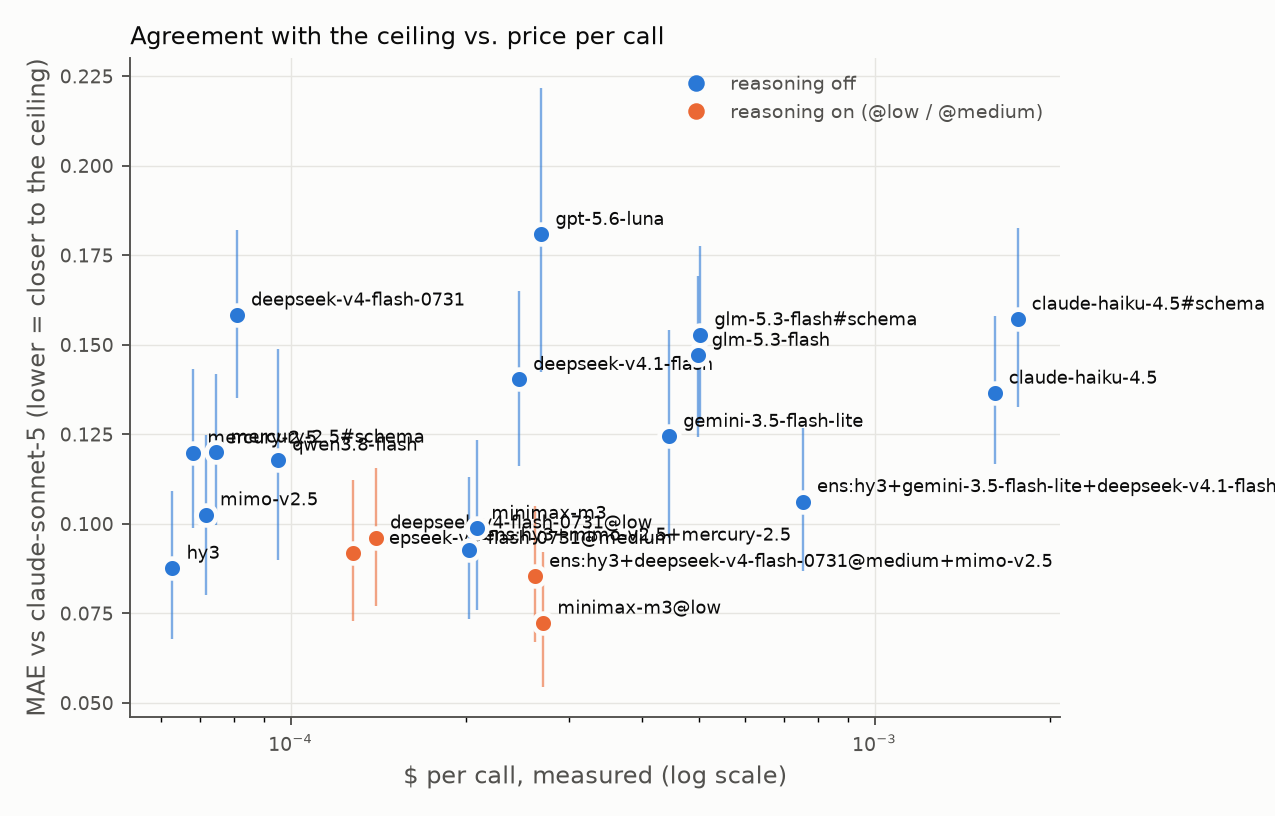
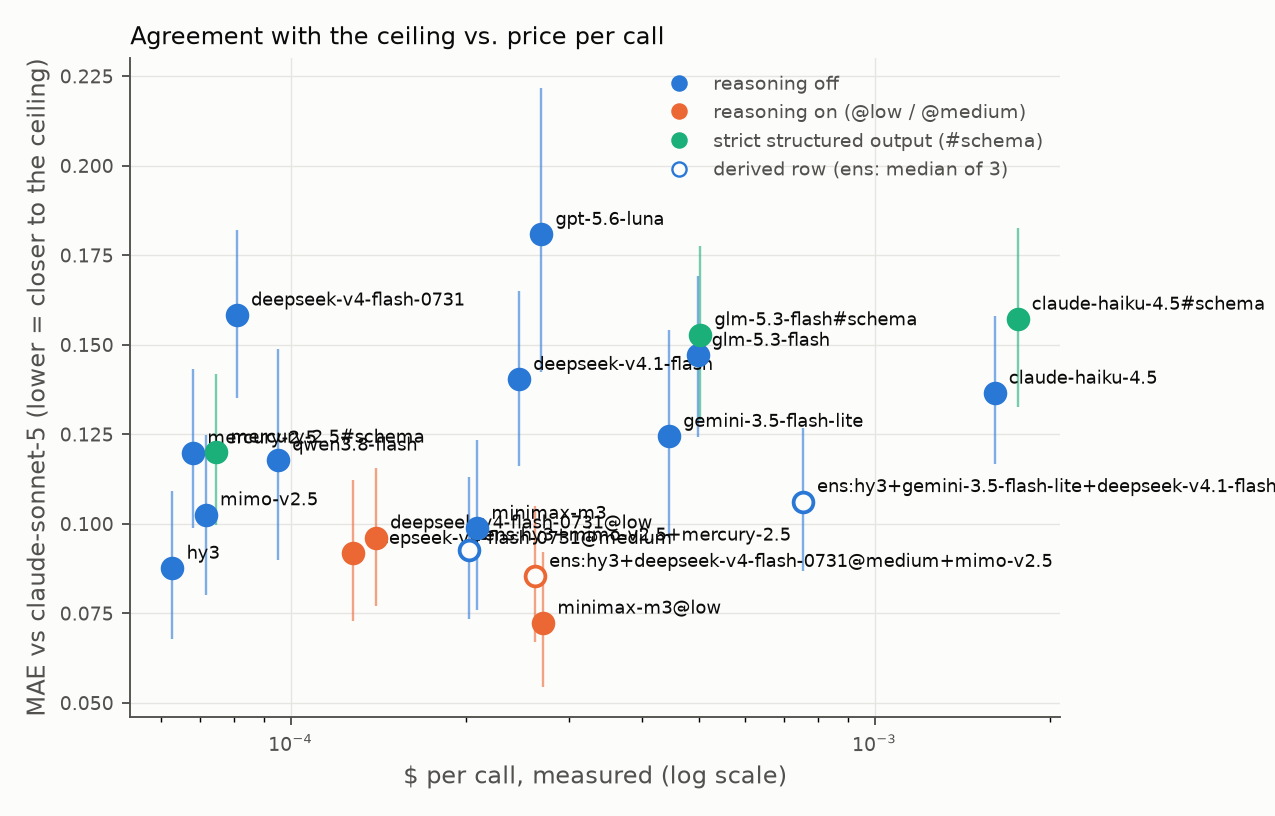
docs+figures: refresh after the analysis features; split docs/METRICS.md out of README
- figures: third palette slot (aqua #1baf7a) for #schema rows, hollow markers for
  derived rows, legend updated; coverage chart colors follow the same rule.
- README was 295 lines: column definitions, method notes and the baseline / ensemble /
  agreement / probe / disagreement sections moved to docs/METRICS.md (every CSV column
  listed, including strict%, derived, kappa_top10, n_calls). README keeps a one-line
  column table and pointers; 187 lines.
- results/* regenerated; README results block equals results/results.md.

diff --git a/figures.py b/figures.py
@@ -1,7 +1,8 @@
 """Two figures from the metrics dict. Static PNGs for the README and the post, so no hover layer.
 
-Palette: categorical slots 1-2 of the validated default (blue = reasoning off, orange = reasoning
-on); text in ink tokens, recessive grid, no dashed rules.
+Palette: categorical slots 1-3 of the validated default (blue = reasoning off, orange = reasoning
+on, aqua = strict structured output); derived rows (ens:, baseline:) are hollow markers; text in
+ink tokens, recessive grid, no dashed rules.
 """
 
 from __future__ import annotations
@@ -17,7 +18,7 @@ matplotlib.use("Agg")
 import matplotlib.pyplot as plt  # noqa: E402
 from matplotlib.lines import Line2D  # noqa: E402
 
-BASE, REASONING = "#2a78d6", "#eb6834"
+BASE, REASONING, SCHEMA = "#2a78d6", "#eb6834", "#1baf7a"
 INK, INK2, SURFACE, GRID = "#0b0b0b", "#52514e", "#fcfcfb", "#e6e5e1"
 
 
@@ -36,22 +37,31 @@ def _style(ax) -> None:
     ax.set_axisbelow(True)
 
 
+def _color(label: str) -> str:
+    if "#schema" in label:
+        return SCHEMA
+    return REASONING if "@" in label else BASE
+
+
 def _legend(ax, **kw) -> None:
+    dot = dict(marker="o", ls="")
     handles = [
-        Line2D([], [], marker="o", ls="", color=BASE, label="reasoning off"),
-        Line2D([], [], marker="o", ls="", color=REASONING, label="reasoning on (@low / @medium)"),
+        Line2D([], [], color=BASE, label="reasoning off", **dot),
+        Line2D([], [], color=REASONING, label="reasoning on (@low / @medium)", **dot),
+        Line2D([], [], color=SCHEMA, label="strict structured output (#schema)", **dot),
+        Line2D([], [], color=BASE, mfc=SURFACE, label="derived row (ens: median of 3)", **dot),
     ]
     ax.legend(handles=handles, frameon=False, fontsize=8, labelcolor=INK2, **kw)
 
 
 def _scatter_points(ax, pts: list[tuple[str, dict]]) -> None:
     for k, r in pts:
-        color = REASONING if "@" in k else BASE
-        xy = (r["cost_usd"], r["mae"])
+        color, xy = _color(k), (r["cost_usd"], r["mae"])
         if not math.isnan(r["mae_lo"] + r["mae_hi"]):
             err = [[r["mae"] - r["mae_lo"]], [r["mae_hi"] - r["mae"]]]
             ax.errorbar(*xy, yerr=err, fmt="none", ecolor=color, elinewidth=1, alpha=0.6, zorder=2)
-        ax.scatter(*xy, s=70, color=color, edgecolor=SURFACE, lw=2, zorder=3)
+        face = SURFACE if r["derived"] else color
+        ax.scatter(*xy, s=70, facecolor=face, edgecolor=color, lw=1.6, zorder=3)
         ax.annotate(
             _short(k), xy, xytext=(6, 4), textcoords="offset points", fontsize=7.5, color=INK
         )
@@ -84,7 +94,7 @@ def plot_coverage(m: dict, out: Path, ceiling: str) -> None:
     ks = sorted((k for k in m if not k.startswith(DERIVED)), key=lambda k: (-m[k]["cov"], k))
     fig, ax = plt.subplots(figsize=(7.5, 0.34 * len(ks) + 2.0), facecolor=SURFACE)
     _style(ax)
-    colors = [REASONING if "@" in k else BASE for k in ks]
+    colors = [_color(k) for k in ks]
     bars = ax.barh([_short(k) for k in ks], [m[k]["cov"] for k in ks], color=colors, height=0.62)
     for b, k in zip(bars, ks, strict=True):
         y = b.get_y() + b.get_height() / 2
@@ -95,6 +105,8 @@ def plot_coverage(m: dict, out: Path, ceiling: str) -> None:
     ax.set_xlabel("coverage: % of calls that returned a parseable score", color=INK2)
     ax.set_title("Coverage by model config", color=INK, fontsize=10, loc="left")
     _legend(ax, loc="upper center", bbox_to_anchor=(0.5, -0.12 - 0.5 / len(ks)), ncol=2)
+    ax.legend_.legend_handles[-1].set_visible(False)  # no derived rows in the coverage chart
+    ax.legend_.texts[-1].set_text("")
     _save(fig, out / "fig_coverage.png")
 
 

diff --git a/README.md b/README.md
@@ -29,23 +29,19 @@ baseline.py          zero-LLM control: tf-idf cosine(profile.md, title + abstrac
 ensembles.py         median-of-3 cheap models as derived rows (pre-registered combos only)
 ```
 
-Metrics, per model config:
+Metrics, per model config (definitions, and the analyses built on them, in
+[docs/METRICS.md](docs/METRICS.md)):
 
-| metric             | meaning                                                                                                                          |
-| ------------------ | -------------------------------------------------------------------------------------------------------------------------------- |
-| **cov%**           | calls that returned a parseable 0-1 score. Timeouts, bad JSON, and empty content count against it.                               |
-| **ladder**         | the parser ladder: % of all calls parseable as clean JSON (strict), as the first JSON object in the body (lenient, the headline cov%), and after `json_repair` fixes a trailing comma, control character or missing quote (repaired). The score is never repaired: no numeric `fit_score` in [0, 1] means uncovered on every rung. |
-| **wrong-field**    | calls on an off-lane preprint scored >= 0.5. Counts calls, not preprints: one preprint misjudged on all 3 repeats contributes 3. |
-| **sigma**          | mean per-preprint std dev across the 3 repeats. Repeatability.                                                                   |
-| **MAE vs ceiling** | mean over preprints of \|model mean - ceiling mean\|. Agreement with the frontier model. The bracket is a 95% bootstrap interval: the 90 preprints resampled with replacement 2,000 times (seed 0), percentile method. |
-| **P(<= best)**     | paired bootstrap against the best usable model (lowest MAE at >= 99% coverage): the share of those same 2,000 resamples in which this model's MAE is at or below the reference's. 1.00 for the reference itself; near 0 means the gap is real, near 0.5 means the two are not separable on 90 preprints. |
-| **rho**            | Spearman rank correlation between the model's and the ceiling's per-preprint mean scores. Scale-free, so it is the column on which derived rows (`baseline:`) are comparable. |
-| **kappa**          | Cohen's kappa between the model's and the ceiling's *decision* on each preprint (score >= 0.5), chance-corrected. 1.0 for the ceiling itself. |
-| **alpha**          | Krippendorff's alpha, two raters, scores binned to 0.1 with squared-bin-difference distance (what the cited implementation calls ordinal). n/a for the unscaled baseline. |
-| **len rho**        | Spearman between abstract word count and the model's mean score. Read it against the ceiling's own value: the analyzer flags models more than 0.2 away from it. |
-| **top-10**         | of the ceiling's 10 highest-scoring preprints, how many are in the model's own top 10. Not bootstrapped: resampling preprints changes what "top 10" means, so this is a point count only. |
-| **latency**        | mean wall-clock seconds per call.                                                                                                |
-| **$/call**         | mean cost per call as reported by OpenRouter, not the price sheet.                                                               |
+| column             | one line                                                                          |
+| ------------------ | --------------------------------------------------------------------------------- |
+| **cov%** / ladder  | calls with a parseable score; strict / lenient / repaired parser rungs            |
+| **wrong-field**    | off-lane calls scored >= 0.5                                                      |
+| **sigma**          | spread across the 3 repeats                                                       |
+| **MAE [95% CI]**   | distance from the ceiling, bootstrap interval over preprints                      |
+| **P(<= best)**     | paired bootstrap: share of resamples where this row beats the best single model   |
+| **rho / kappa / alpha / len rho** | rank, decision and binned agreement with the ceiling; length bias      |
+| **top-10**         | how many of the ceiling's top ten the model also shortlisted                      |
+| **latency, $/call** | measured, not the price sheet                                                    |
 
 ## Results
 
@@ -100,68 +96,11 @@ Reproduce with `uv run python analyze.py` against `data/results.jsonl`.
 ![MAE against measured cost per call](results/fig_mae_vs_cost.png)
 ![Coverage by model configuration](results/fig_coverage.png)
 
-## Baselines
+## More analyses
 
-Every model in the table has to beat a free method. `baseline:tfidf` scores each preprint by
-the cosine between a tf-idf vector of `profile.md` and one of its title + abstract (stdlib
-only: tf = 1 + log(count), idf = log((N + 1) / (df + 1)) over the 90 preprints, then min-max to
-[0, 1]). It costs nothing, always answers, and its row sits in the table like any other. Its
-scale is not a fit score, so its MAE against the ceiling is marked n/a; compare it on **rho**
-(Spearman rank correlation with the ceiling's per-preprint means, reported for every row) and
-on **top-10**. A model whose rho or top-10 does not clear the baseline is not adding anything
-tf-idf would not have. Not tried: sentence-embedding cosine, which would need a dependency this
-repo does not have; the "corpus" variant (cosine to the abstracts of past picks instead of the
-profile) is the obvious next control.
-
-## Ensembles
-
-Compound judges are the thesis of frameworks like [Verdict](https://github.com/haizelabs/verdict):
-instead of one call, aggregate several. The `ens:` rows are the cheapest version of that idea,
-computed from scores already in `data/results.jsonl`: per preprint, the **median** of three
-models' mean scores. Cost is the three costs summed, latency the slowest of the three, and the
-row is unscored wherever any component failed, so its coverage is all-or-nothing. They are
-italic in the table and carry `derived = True` in the CSV; the `P(<= best)` reference is
-always a single model.
-
-Three combinations are reported, chosen by rule before any ensemble was scored: the best-MAE,
-steadiest-sigma and best-top-10 usable models together; the three cheapest usable models; and
-the three lowest-MAE usable models from three different labs. There was deliberately no search
-over combinations. Picking the best of many ensembles on the same 90 preprints the table is
-scored on would be optimistic by construction, and even these three are post-hoc in the sense
-that the components were chosen from this table.
-
-## Chance-corrected agreement, by category
-
-MAE rewards a judge that says "no" to almost everything, because the ceiling does too. The
-`kappa` and `alpha` columns correct for that chance agreement, and
-[`results/agreement_by_category.md`](results/agreement_by_category.md) breaks kappa down by
-bioRxiv category (the four in-lane categories, with the off-lane papers pooled) so a judge that
-is reliable on genomics and unreliable on microbiology does not hide behind one number. The
-verdict rule follows [judgecal](https://github.com/bengodgart/llm-judge-calibration): a
-category is **reliable** when kappa >= 0.60 and it holds at least 8 preprints, else not. The
-CSV also carries `kappa_top10`, the same statistic on top-10 membership.
-
-## Bias probes
-
-What was tested: **length.** For every row, `len rho` is the Spearman correlation between an
-abstract's word count and the model's mean score for it. The ceiling has its own value, so the
-question is not "is rho zero" but "does the cheap judge reward length more or less than the
-model it is calibrated to"; `analyze.py` prints the rows more than 0.2 away from the ceiling.
-
-What was not tested, and why: **position bias** (one abstract per call, nothing to reorder),
-**self-preference** (no model here judges its own writing), and the **padded-twin verbosity
-probe** used by pairwise judges (this judge never sees two candidates side by side, so padding
-one of them has no analogue). If the judge ever moves to pairwise ranking, those three are the
-first probes to add.
-
-## Where the models disagree
-
-MAE says how far a model sits from the ceiling on average. It says nothing about *which*
-papers it gets wrong, and those are the ones worth a human's time. [`results/disagreement.md`](results/disagreement.md)
-ranks the 90 preprints by the population std dev of the usable models' mean scores (the
-same >= 99% coverage set as the table, ceiling excluded), names the model at each extreme
-next to the ceiling's own score, and lists the mirror image: the preprints every model
-agrees on. Regenerate with `uv run python analyze.py --top-disagreement 10`.
+Baselines, ensembles, chance-corrected agreement by category, bias probes and the
+disagreement audit are in [docs/METRICS.md](docs/METRICS.md); their outputs live in
+[`results/`](results/).
 
 ## Run it
 
@@ -229,56 +168,8 @@ Thresholds are yours to set; the defaults above are the ones the current winner 
 
 ## Method notes
 
-- **Same prompt for every model** (`judge.SYSTEM`): profile + title + abstract in, JSON
-  `{fit_score, field, rationale}` out via `response_format={"type": "json_object"}`.
-- **Reasoning is off unless the row says otherwise.** OpenRouter's `reasoning`
-  parameter: `{"enabled": false}` switches thinking off; `{"effort": "low"|"medium"}`
-  turns it up. Some models (DeepSeek V4 Flash) default to ON when the key is omitted,
-  so the harness always sends it. Two models refuse the off switch with HTTP 400
-  "Reasoning is mandatory for this endpoint": Gemini 3.5 Flash-Lite (which then reports
-  0 reasoning tokens anyway) and GLM 5.3 Flash (which does think). Those two run at
-  provider default, marked `"default"` in the roster.
-- **Structured output fixes the fence and nothing else.** Three models were rerun with
-  `response_format: {"type": "json_schema", "strict": true}` and the score schema from
-  `judge.SCHEMA` (rows suffixed `#schema`). Haiku 4.5 goes from 0.0% strict JSON to
-  100.0%: the markdown fence is gone. Its agreement does not improve, it worsens, MAE
-  0.136 [0.117, 0.158] to 0.157 [0.133, 0.183], and it
-  scores 4 off-lane calls at 0.5 or above where JSON mode scored 0. GLM 5.3 Flash
-  (0.147 to 0.153) and Mercury 2.5 (0.120 to 0.120) sit inside their own intervals;
-  Mercury's coverage moves from 99.3 to 100.0. Cost per call is unchanged for all three.
-  Structured output is a parser guarantee, not a judgment upgrade; if your parser already takes
-  the first JSON object, it buys you the `strict%` column and nothing in the columns that matter.
-- **Per-call timeout is 240 s.** A judge that needs more than four minutes for one
-  abstract is not a judge; timeouts count against coverage.
-- **max_tokens is 4096 for every call.** Reasoning tokens are billed as completion
-  tokens and count against it.
-- **Cost is measured, not looked up.** `usage: {"include": true}` makes OpenRouter
-  return the cost of each call; `$/call` is the mean over calls that returned.
-- **The provider that served each call is recorded, and it matters.** A model id on
-  OpenRouter is a routing decision, not a model: the same id is served by several
-  providers and they do not all honor the same parameters. In this run one provider
-  ignored `reasoning: {"enabled": false}` for MiniMax M3, emitted reasoning tokens
-  and returned `content: null` on every call it served, while two others honored it
-  and answered normally. `analyze.py` prints coverage per (model, provider) for
-  exactly this reason. Pin `provider: {"only": [...], "allow_fallbacks": false}` if
-  you need a run to be reproducible.
-- **Read the answer out of whichever field it arrives in.** One provider (Parasail, serving
-  minimax/minimax-m3) returns the completion in `message.reasoning` and leaves `message.content`
-  null, with or without a `reasoning` parameter in the request. Reading only `content` booked 77
-  complete answers in this run as coverage failures and scored that model at 79.6% instead of
-  97.0%. `harness.unpack` now falls back to `reasoning` and records `content_field`.
-- **A parseable score is not clean JSON, so the parser is a ladder.** Claude Haiku 4.5 wrapped
-  all 270 of its JSON-mode responses in a ` ```json ` markdown fence, so a bare `json.loads()`
-  scores it at 0% coverage. `judge.parse` tries strict `json.loads`, then the first JSON object
-  in the body, then [`json_repair`](https://github.com/mangiucugna/json_repair), and records
-  which rung answered as `parse_tier`. The headline `cov%` is the lenient rung, so the numbers
-  the write-up quotes do not move; the `ladder` column shows all three. In this run the repair
-  rung recovers the ceiling's own three parse failures (two control characters, one trailing
-  comma) and two Mercury 2.5 bodies; everything else that failed was well-formed JSON with no
-  `fit_score` key, which no repair can supply. The harness stores at most 2,000 characters of
-  each body, so a few long responses cannot be re-parsed post hoc; `analyze.py` prints how many.
-- The ceiling is scored with the same 3 repeats, so its row shows its own sigma and
-  how many "wrong-field" calls the ceiling itself makes.
+Moved to [docs/METRICS.md](docs/METRICS.md#method-notes): same prompt for every model, reasoning
+switches, timeouts, measured cost, provider routing, the parser ladder, structured output.
 
 ## Caveats
 

diff --git a/docs/METRICS.md b/docs/METRICS.md
@@ -1,0 +1,142 @@
+# Metrics and analyses
+
+Every column in `results/results.csv`, how it is computed, and the analyses that hang off it.
+All numbers are computed from `data/results.jsonl` by `analyze.py`; nothing here is typed in.
+
+## Columns
+
+| metric             | meaning                                                                                                                          |
+| ------------------ | -------------------------------------------------------------------------------------------------------------------------------- |
+| **cov%**           | calls that returned a parseable 0-1 score. Timeouts, bad JSON, and empty content count against it.                               |
+| **ladder**         | the parser ladder: % of all calls parseable as clean JSON (strict), as the first JSON object in the body (lenient, the headline cov%), and after `json_repair` fixes a trailing comma, control character or missing quote (repaired). The score is never repaired: no numeric `fit_score` in [0, 1] means uncovered on every rung. |
+| **strict%**        | of the covered calls, the share whose whole body was one clean JSON object (nothing before or after it). |
+| **wrong-field**    | calls on an off-lane preprint scored >= 0.5. Counts calls, not preprints: one preprint misjudged on all 3 repeats contributes 3. |
+| **sigma**          | mean per-preprint std dev across the 3 repeats. Repeatability.                                                                   |
+| **MAE vs ceiling** | mean over preprints of \|model mean - ceiling mean\|. Agreement with the frontier model. The bracket is a 95% bootstrap interval: the 90 preprints resampled with replacement 2,000 times (seed 0), percentile method. |
+| **P(<= best)**     | paired bootstrap against the best usable model (lowest MAE at >= 99% coverage): the share of those same 2,000 resamples in which this model's MAE is at or below the reference's. 1.00 for the reference itself; near 0 means the gap is real, near 0.5 means the two are not separable on 90 preprints. |
+| **rho**            | Spearman rank correlation between the model's and the ceiling's per-preprint mean scores. Scale-free, so it is the column on which derived rows (`baseline:`) are comparable. |
+| **kappa**          | Cohen's kappa between the model's and the ceiling's *decision* on each preprint (score >= 0.5), chance-corrected. 1.0 for the ceiling itself. |
+| **alpha**          | Krippendorff's alpha, two raters, scores binned to 0.1 with squared-bin-difference distance (what the cited implementation calls ordinal). n/a for the unscaled baseline. |
+| **len rho**        | Spearman between abstract word count and the model's mean score. Read it against the ceiling's own value: the analyzer flags models more than 0.2 away from it. |
+| **top-10**         | of the ceiling's 10 highest-scoring preprints, how many are in the model's own top 10. Not bootstrapped: resampling preprints changes what "top 10" means, so this is a point count only. |
+| **latency**        | mean wall-clock seconds per call.                                                                                                |
+| **$/call**         | mean cost per call as reported by OpenRouter, not the price sheet. Summed for ensembles. |
+| **derived**        | CSV only: True for rows computed from other rows (`baseline:`, `ens:`). Never the paired-test reference. |
+| **kappa_top10**    | CSV only: Cohen's kappa on top-10 membership, the shortlist decision itself. |
+| **n_calls**        | CSV only: rows behind the label (270 for a full 90 x 3 run). |                                                               |
+
+## Baselines
+
+Every model in the table has to beat a free method. `baseline:tfidf` scores each preprint by
+the cosine between a tf-idf vector of `profile.md` and one of its title + abstract (stdlib
+only: tf = 1 + log(count), idf = log((N + 1) / (df + 1)) over the 90 preprints, then min-max to
+[0, 1]). It costs nothing, always answers, and its row sits in the table like any other. Its
+scale is not a fit score, so its MAE against the ceiling is marked n/a; compare it on **rho**
+(Spearman rank correlation with the ceiling's per-preprint means, reported for every row) and
+on **top-10**. A model whose rho or top-10 does not clear the baseline is not adding anything
+tf-idf would not have. Not tried: sentence-embedding cosine, which would need a dependency this
+repo does not have; the "corpus" variant (cosine to the abstracts of past picks instead of the
+profile) is the obvious next control.
+
+## Ensembles
+
+Compound judges are the thesis of frameworks like [Verdict](https://github.com/haizelabs/verdict):
+instead of one call, aggregate several. The `ens:` rows are the cheapest version of that idea,
+computed from scores already in `data/results.jsonl`: per preprint, the **median** of three
+models' mean scores. Cost is the three costs summed, latency the slowest of the three, and the
+row is unscored wherever any component failed, so its coverage is all-or-nothing. They are
+italic in the table and carry `derived = True` in the CSV; the `P(<= best)` reference is
+always a single model.
+
+Three combinations are reported, chosen by rule before any ensemble was scored: the best-MAE,
+steadiest-sigma and best-top-10 usable models together; the three cheapest usable models; and
+the three lowest-MAE usable models from three different labs. There was deliberately no search
+over combinations. Picking the best of many ensembles on the same 90 preprints the table is
+scored on would be optimistic by construction, and even these three are post-hoc in the sense
+that the components were chosen from this table.
+
+## Chance-corrected agreement, by category
+
+MAE rewards a judge that says "no" to almost everything, because the ceiling does too. The
+`kappa` and `alpha` columns correct for that chance agreement, and
+[`results/agreement_by_category.md`](../results/agreement_by_category.md) breaks kappa down by
+bioRxiv category (the four in-lane categories, with the off-lane papers pooled) so a judge that
+is reliable on genomics and unreliable on microbiology does not hide behind one number. The
+verdict rule follows [judgecal](https://github.com/bengodgart/llm-judge-calibration): a
+category is **reliable** when kappa >= 0.60 and it holds at least 8 preprints, else not. The
+CSV also carries `kappa_top10`, the same statistic on top-10 membership.
+
+## Bias probes
+
+What was tested: **length.** For every row, `len rho` is the Spearman correlation between an
+abstract's word count and the model's mean score for it. The ceiling has its own value, so the
+question is not "is rho zero" but "does the cheap judge reward length more or less than the
+model it is calibrated to"; `analyze.py` prints the rows more than 0.2 away from the ceiling.
+
+What was not tested, and why: **position bias** (one abstract per call, nothing to reorder),
+**self-preference** (no model here judges its own writing), and the **padded-twin verbosity
+probe** used by pairwise judges (this judge never sees two candidates side by side, so padding
+one of them has no analogue). If the judge ever moves to pairwise ranking, those three are the
+first probes to add.
+
+## Where the models disagree
+
+MAE says how far a model sits from the ceiling on average. It says nothing about *which*
+papers it gets wrong, and those are the ones worth a human's time. [`results/disagreement.md`](../results/disagreement.md)
+ranks the 90 preprints by the population std dev of the usable models' mean scores (the
+same >= 99% coverage set as the table, ceiling excluded), names the model at each extreme
+next to the ceiling's own score, and lists the mirror image: the preprints every model
+agrees on. Regenerate with `uv run python analyze.py --top-disagreement 10`.
+
+## Method notes
+
+- **Same prompt for every model** (`judge.SYSTEM`): profile + title + abstract in, JSON
+  `{fit_score, field, rationale}` out via `response_format={"type": "json_object"}`.
+- **Reasoning is off unless the row says otherwise.** OpenRouter's `reasoning`
+  parameter: `{"enabled": false}` switches thinking off; `{"effort": "low"|"medium"}`
+  turns it up. Some models (DeepSeek V4 Flash) default to ON when the key is omitted,
+  so the harness always sends it. Two models refuse the off switch with HTTP 400
+  "Reasoning is mandatory for this endpoint": Gemini 3.5 Flash-Lite (which then reports
+  0 reasoning tokens anyway) and GLM 5.3 Flash (which does think). Those two run at
+  provider default, marked `"default"` in the roster.
+- **Structured output fixes the fence and nothing else.** Three models were rerun with
+  `response_format: {"type": "json_schema", "strict": true}` and the score schema from
+  `judge.SCHEMA` (rows suffixed `#schema`). Haiku 4.5 goes from 0.0% strict JSON to
+  100.0%: the markdown fence is gone. Its agreement does not improve, it worsens, MAE
+  0.136 [0.117, 0.158] to 0.157 [0.133, 0.183], and it
+  scores 4 off-lane calls at 0.5 or above where JSON mode scored 0. GLM 5.3 Flash
+  (0.147 to 0.153) and Mercury 2.5 (0.120 to 0.120) sit inside their own intervals;
+  Mercury's coverage moves from 99.3 to 100.0. Cost per call is unchanged for all three.
+  Structured output is a parser guarantee, not a judgment upgrade; if your parser already takes
+  the first JSON object, it buys you the `strict%` column and nothing in the columns that matter.
+- **Per-call timeout is 240 s.** A judge that needs more than four minutes for one
+  abstract is not a judge; timeouts count against coverage.
+- **max_tokens is 4096 for every call.** Reasoning tokens are billed as completion
+  tokens and count against it.
+- **Cost is measured, not looked up.** `usage: {"include": true}` makes OpenRouter
+  return the cost of each call; `$/call` is the mean over calls that returned.
+- **The provider that served each call is recorded, and it matters.** A model id on
+  OpenRouter is a routing decision, not a model: the same id is served by several
+  providers and they do not all honor the same parameters. In this run one provider
+  ignored `reasoning: {"enabled": false}` for MiniMax M3, emitted reasoning tokens
+  and returned `content: null` on every call it served, while two others honored it
+  and answered normally. `analyze.py` prints coverage per (model, provider) for
+  exactly this reason. Pin `provider: {"only": [...], "allow_fallbacks": false}` if
+  you need a run to be reproducible.
+- **Read the answer out of whichever field it arrives in.** One provider (Parasail, serving
+  minimax/minimax-m3) returns the completion in `message.reasoning` and leaves `message.content`
+  null, with or without a `reasoning` parameter in the request. Reading only `content` booked 77
+  complete answers in this run as coverage failures and scored that model at 79.6% instead of
+  97.0%. `harness.unpack` now falls back to `reasoning` and records `content_field`.
+- **A parseable score is not clean JSON, so the parser is a ladder.** Claude Haiku 4.5 wrapped
+  all 270 of its JSON-mode responses in a ` ```json ` markdown fence, so a bare `json.loads()`
+  scores it at 0% coverage. `judge.parse` tries strict `json.loads`, then the first JSON object
+  in the body, then [`json_repair`](https://github.com/mangiucugna/json_repair), and records
+  which rung answered as `parse_tier`. The headline `cov%` is the lenient rung, so the numbers
+  the write-up quotes do not move; the `ladder` column shows all three. In this run the repair
+  rung recovers the ceiling's own three parse failures (two control characters, one trailing
+  comma) and two Mercury 2.5 bodies; everything else that failed was well-formed JSON with no
+  `fit_score` key, which no repair can supply. The harness stores at most 2,000 characters of
+  each body, so a few long responses cannot be re-parsed post hoc; `analyze.py` prints how many.
+- The ceiling is scored with the same 3 repeats, so its row shows its own sigma and
+  how many "wrong-field" calls the ceiling itself makes.
